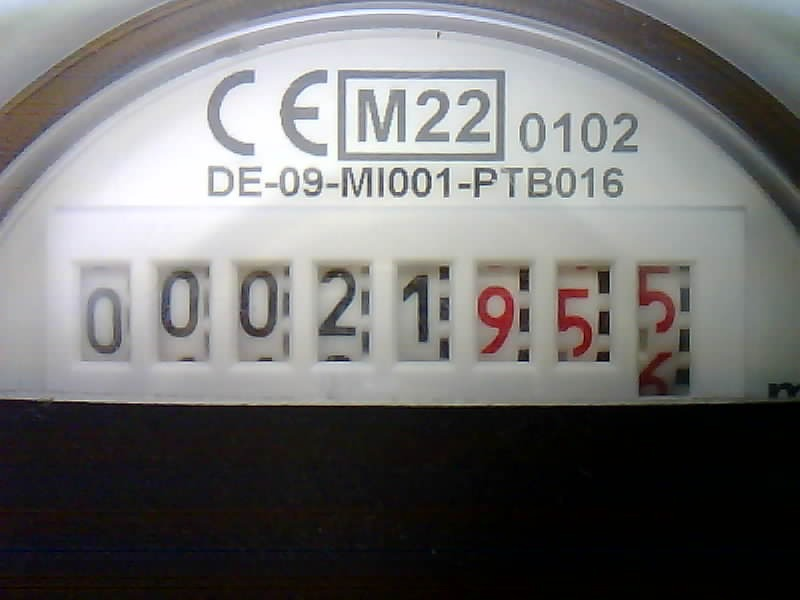
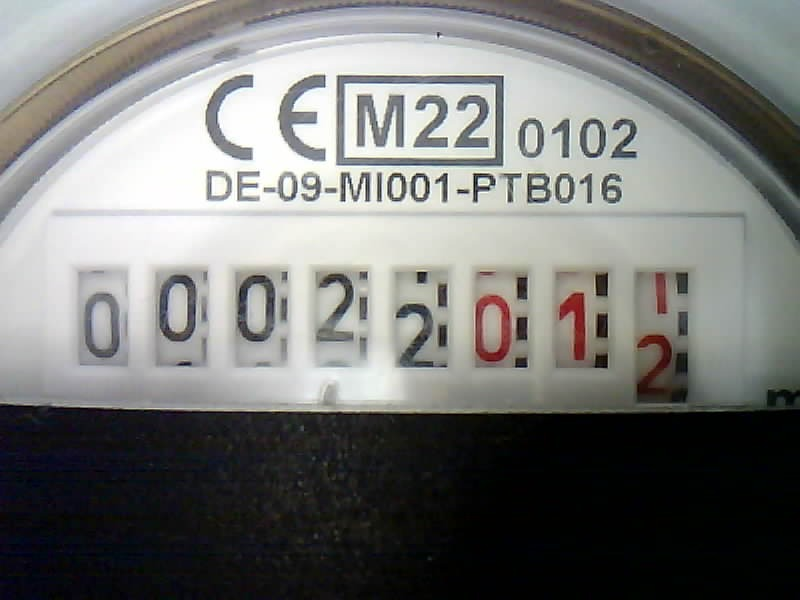
Major file updates.

Changed region(s): [[0.0, 0.0, 1.0, 0.72], [0.375, 0.72, 0.4375, 0.78], [0.9688, 0.0, 1.0, 0.03]]

diff --git a/test.py b/test.py
@@ -9,8 +9,8 @@ def main():
     meter = Image.open(meter_disc_gr,"r")
 
     # Common values for defining the digit areas
-    upper = 263 # Upper horizontal line
-    lower = 365 # Bottom horizontal line
+    upper = 269 # Upper horizontal line
+    lower = 371 # Bottom horizontal line
     width = 42  # A little wider than the digit templates
 
     # Digit templates with fixed size
@@ -19,21 +19,21 @@ def main():
 
     # Digit fields naming: exp0 = litres, ..., exp7 = 10000000 litres
     # Define left and right borders of the number areas to be analyzed
-    exp0_left = 637
+    exp0_left = 636
     exp0_right = exp0_left + width
-    exp1_left = 556
+    exp1_left = 553
     exp1_right = exp1_left + width
-    exp2_left = 476
+    exp2_left = 474
     exp2_right = exp2_left + width
-    exp3_left = 397
+    exp3_left = 394
     exp3_right = exp3_left + width
-    exp4_left = 318
+    exp4_left = 316
     exp4_right = exp4_left + width
-    exp5_left = 239
+    exp5_left = 237
     exp5_right = exp5_left + width
-    exp6_left = 159
+    exp6_left = 158
     exp6_right = exp6_left + width
-    exp7_left = 82
+    exp7_left = 81
     exp7_right = exp7_left + width
 
 
@@ -51,9 +51,9 @@ def main():
                 for x in range(left, right, 1):
                     coordinate = x, y
                     pix_color = (meter.getpixel(coordinate))
-                    if pix_color < 100:
+                    if pix_color < 125:
                         val = 1
-                    if pix_color >= 100:
+                    if pix_color >= 125:
                         val = 0
                     txt_file.write(str(val))
                 txt_file.write("\n")
@@ -76,7 +76,6 @@ def main():
 
         # Remove file exp_.txt
         os.remove("exp" + str(exp_ind) + ".txt")
-
 
         # List of all digit templates
         template_files = ["0_40x68.txt", "1_40x68.txt", "2_40x68.txt",
@@ -125,9 +124,14 @@ def main():
                 Match_max = match_max
                 Digit = p
 
+            # On the meter in use here it is not easy to decode the rightmost digit properly,
+            # so we set it to zero.
+            if exp_ind == 0:
+                Digit = 0
+
         print "Hits:", "%4d"%Match_max, ",", "Found digit:", Digit, ", Position: 10 ^", exp_ind
         return Digit * (10 ** exp_ind)
-    # ---------------------------- End of analyzer function -----------------------------
+    # ------------------------------- End of analyzer function --------------------------------
 
     # Call analyzer function
     exp_ind = 0
@@ -148,7 +152,7 @@ def main():
     eighth = analyzer(exp7_left, exp7_right, upper, lower, exp_ind)
 
     print "\nMeter total value:",
-    print first + second + third + fourth + fifth + sixth + seventh + eighth,
+    print eighth + seventh + sixth + fifth + fourth + third + second + first,
 
     print "litres"
 

diff --git a/README.md b/README.md
@@ -12,8 +12,8 @@ Hardware
 
 The camera is cheap, and can be found on Ebay.
 
-Files
------
+Files:
+------
 3 python programs.  
 10 number templates in .txt format.  
 Color photo of the meter.  
@@ -31,3 +31,35 @@ To get new counter numbers:
 * Provide a new photo of the meter, named: "meter_face_color.png".
 * Run "meter_face_color.png" through "ToGray.py" to produce a new grayscale file "meter_face_gray.png".
 * Run "meter_face_gray.png" through "test.py" to display the reading of the water meter.
+
+A brief explanation of how the programs work:
+---------------------------------------------
+MakeTemplate.py
+Opens an RGB image of one digit "n_40x68.png", digit n corresponds to the file name.
+Converts the image to grayscale. Now a single band image (one band, L, grayshades).
+Reads through all pixels and stores as text file where 0 is white and 1 is black.
+Opening the text file (template file) in an editor will show the digit drawn by 1's.
+Text file name: "n_40x68.txt".
+
+ToGray.py
+Opens an RGB image of the meter: "meter_face_color.png".
+Converts the image to grayscale. Now a single band image (one band, L, grayshades).
+Adjusts Contrast, Brightness and sharpness in turn, temporarily storing image after each modification.
+The finished image is stored as "meter_face_gray.png".
+All temporary files are deleted during the program run.
+
+Test.py
+Opens an L (grayshade) image of the meter "meter_face_gray.png".
+Sets borders for where the digit areas are on the meter face.
+
+Function analyzer(...):
+Reads the pixels in each digit area in turn, starting with the least significant.
+Saves area as text in same format as the template files (0's and 1's).
+Reads back the text file and places the values in an array. Removes text file.
+Reads each of the ten template files in turn and places values in array.
+For each template array, tests for correspondence (match) with the digit area array.
+Records number of matches, determines which template gives the highest number of matches.
+Highest number of matches is then determined as the actual number on the meter.
+
+Runs the function for each of the number areas on the meter face.
+From this, determines the complete reading on the meter.
